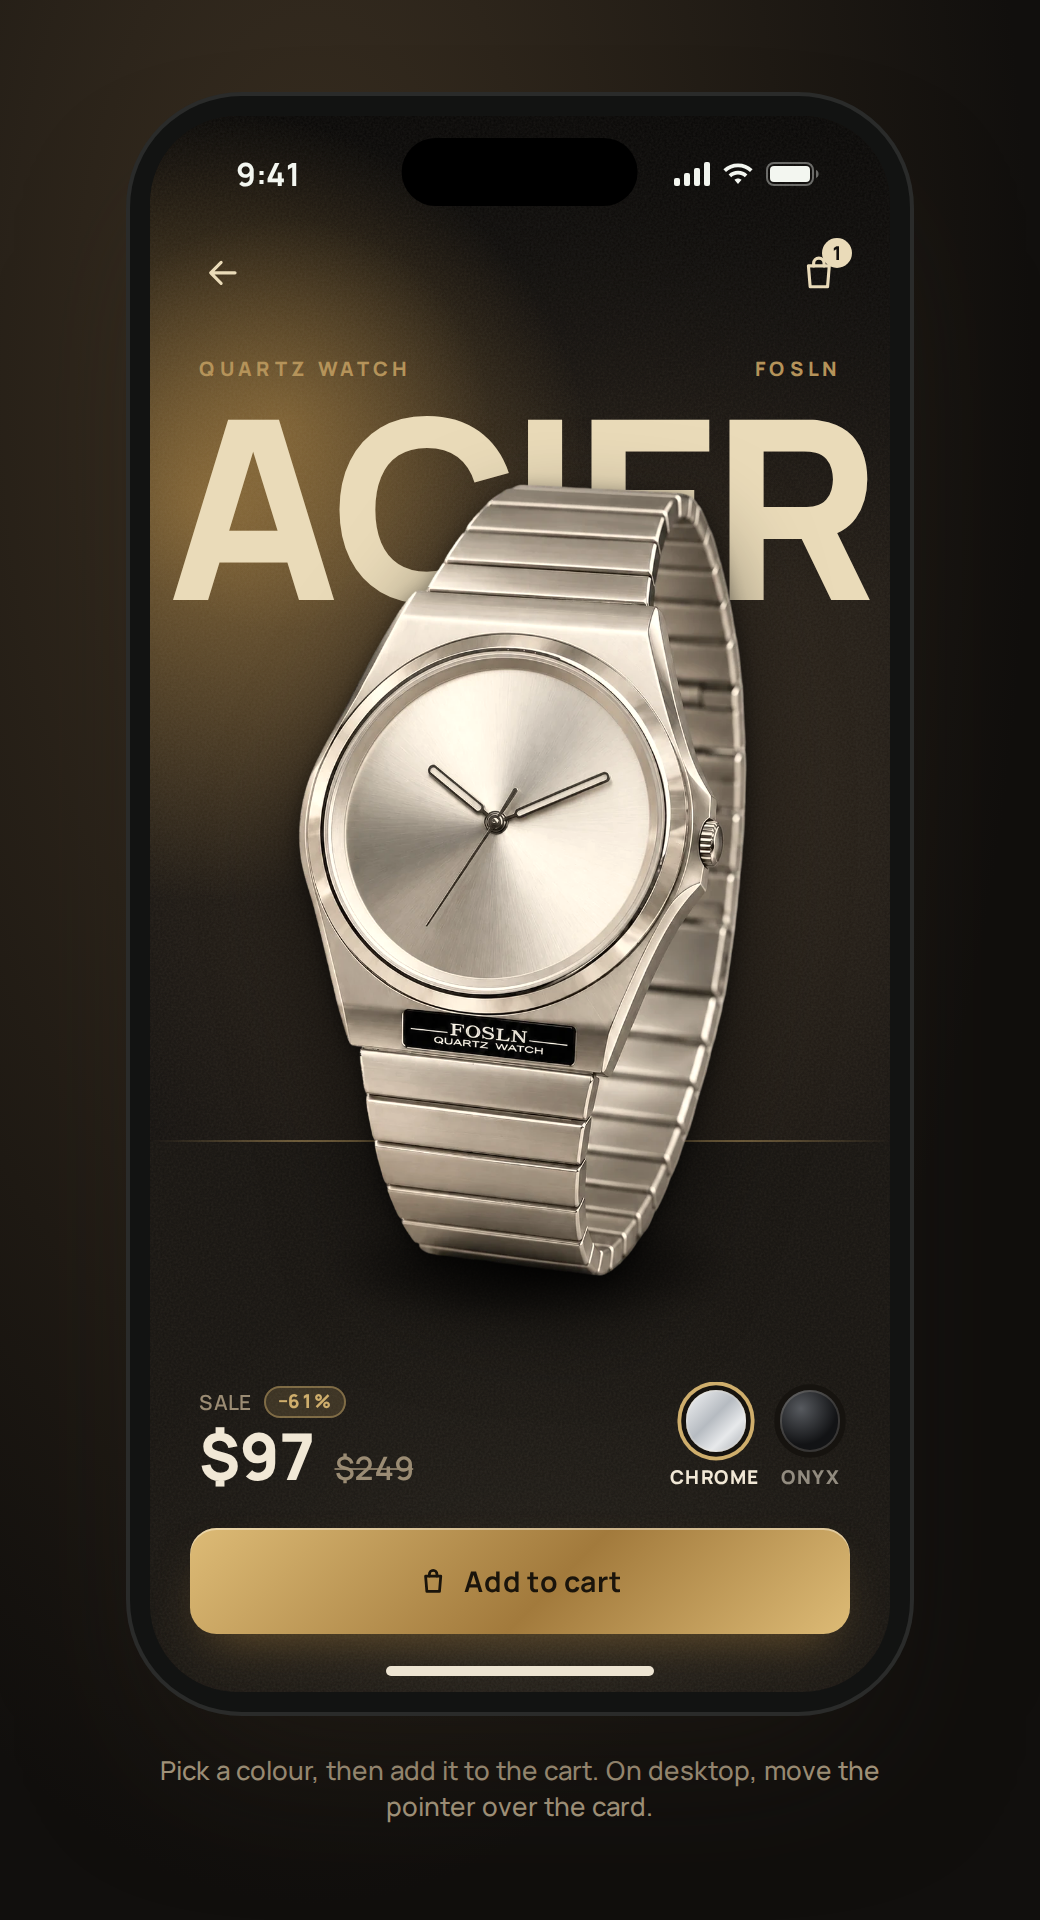
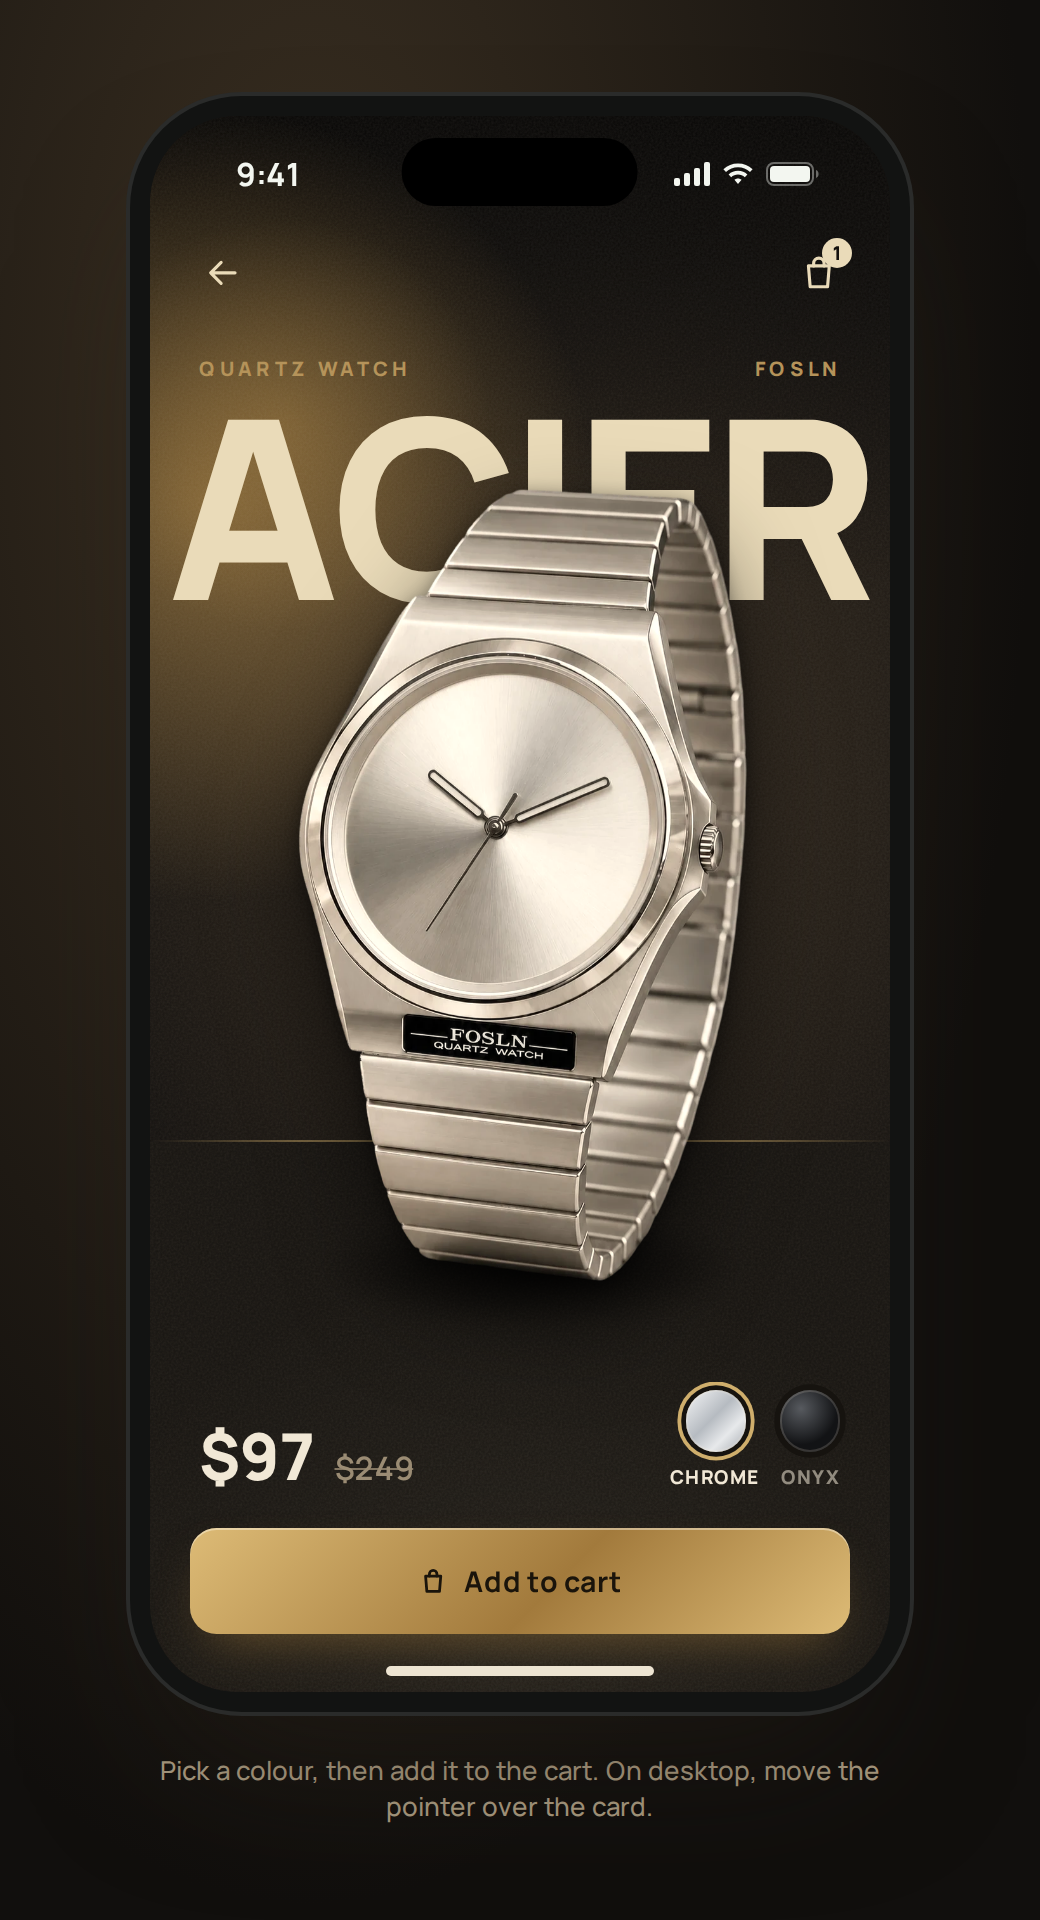
Product card (watch): drop the Sale label and percentage tag
The comparison carries the sale on its own: the footer is now just $97
with $249 struck through beside it. In the Shopify section, the "Price"
label shows only for variants at full price and hides while a compare-at
price is shown; the sale label and percentage settings are removed.

Claude-Session: https://claude.ai/code/session_01USNSbaj4fcY1X4jUF4TLUx

Changed region(s): [[0.2769, 0.25, 0.7077, 0.6875], [0.4308, 0.4062, 0.5846, 0.4688], [0.2462, 0.7188, 0.3385, 0.75]]

diff --git a/components/product-card-watch/shopify/ui-wcard-shopify.js b/components/product-card-watch/shopify/ui-wcard-shopify.js
@@ -1,10 +1,10 @@
 /* UI Product Card (watch) — Shopify connection. Upload as assets/ui-wcard-shopify.js.
 
    - Swatches pick the variant: each swatch input carries data-variant-id,
-     data-price and data-available (plus data-compare and data-off when the
-     variant is on sale). Picking one updates the hidden variant id, the
-     price, the struck-through compare-at price and discount tag, the price
-     label ("Price" or "Sale"), and the button (it reads "Sold out" and
+     data-price and data-available (plus data-compare when the variant is on
+     sale). Picking one updates the hidden variant id, the price, the
+     struck-through compare-at price (the "Price" label hides while it shows),
+     and the button (it reads "Sold out" and
      disables when the variant is unavailable).
    - Add to cart adds the selected variant to the real cart through Shopify's
      Cart AJAX API (POST /cart/add.js), while the product flies. The badge
@@ -68,9 +68,7 @@
     var price = card.querySelector(".ui-wcard__price");
     var was = card.querySelector(".ui-wcard__price-was");
     var wasValue = card.querySelector("[data-ui-wcard-was]");
-    var off = card.querySelector(".ui-wcard__price-off");
-    var priceName = card.querySelector(".ui-wcard__price-name");
-    var showPercent = card.getAttribute("data-show-percent") !== "false";
+    var priceHead = card.querySelector(".ui-wcard__price-head");
     var cta = card.querySelector(".ui-wcard__cta");
     var label = card.querySelector(".ui-wcard__cta-add");
     var addHTML = label ? label.innerHTML : "";
@@ -84,13 +82,7 @@
       var compare = radio.dataset.compare;
       if (was) was.hidden = !compare;
       if (wasValue) wasValue.textContent = compare || "";
-      if (off) {
-        off.hidden = !(compare && showPercent);
-        off.textContent = compare ? "\u2212" + radio.dataset.off + "%" : "";
-      }
-      if (priceName) {
-        priceName.textContent = card.getAttribute(compare ? "data-sale-label" : "data-price-label") || priceName.textContent;
-      }
+      if (priceHead) priceHead.hidden = !!compare;
       var available = radio.dataset.available !== "false";
       if (cta) cta.disabled = !available;
       if (label) {

diff --git a/components/product-card-watch/style.css b/components/product-card-watch/style.css
@@ -328,25 +328,7 @@
   text-transform: uppercase;
 }
 
-.ui-wcard__price-head {
-  display: flex;
-  align-items: center;
-  gap: calc(7 * var(--u));
-}
-
-/* Discount tag: a small pill in the ring colour (gold on Chrome, ivory on Onyx). */
-.ui-wcard__price-off {
-  padding: calc(3 * var(--u)) calc(7 * var(--u));
-  border-radius: 999px;
-  background: color-mix(in srgb, var(--ui-wcard-ring) 18%, transparent);
-  box-shadow: inset 0 0 0 1px color-mix(in srgb, var(--ui-wcard-ring) 45%, transparent);
-  color: var(--ui-wcard-ring);
-  font-size: calc(10 * var(--u));
-  font-weight: 800;
-  letter-spacing: 0.04em;
-  line-height: 1;
-  font-variant-numeric: tabular-nums;
-}
+.ui-wcard__price-head { display: block; }
 
 .ui-wcard__price-row {
   display: flex;
@@ -368,8 +350,12 @@
   text-transform: none;
 }
 
-.ui-wcard__price-off[hidden],
+.ui-wcard__price-head[hidden],
 .ui-wcard__price-was[hidden] { display: none; }
+
+/* With no label above it (on sale), the price row sits on the label's line. */
+.ui-wcard__price-head[hidden] + .ui-wcard__price-row,
+.ui-wcard__price-label > .ui-wcard__price-row:first-child { margin-top: 0; }
 
 .ui-wcard__price {
   display: block;

diff --git a/components/product-card-watch/index.html b/components/product-card-watch/index.html
@@ -128,7 +128,6 @@
         <div class="ui-wcard__body">
           <div class="ui-wcard__row">
             <p class="ui-wcard__price-label">
-              <span class="ui-wcard__price-head"><span class="ui-wcard__price-name">Sale</span> <span class="ui-wcard__price-off">−61%</span></span>
               <span class="ui-wcard__price-row">
                 <strong class="ui-wcard__price">$97</strong>
                 <s class="ui-wcard__price-was"><span class="ui-wcard__sr">Was </span>$249</s>

diff --git a/components/product-card-watch/README.md b/components/product-card-watch/README.md
@@ -7,7 +7,7 @@ The watch edition of the [product card](../product-card/), for the FOSLN ACIER q
   - Spec line: "Quartz watch" on the left, the brand "FOSLN" on the right.
   - Wordmark: "ACIER", edge to edge, sitting behind the watch. It's sized for five letters.
   - Watch: stands over the lower half of the wordmark, from the stage into the footer, over a soft contact shadow.
-  - Footer: the sale price on the left ("SALE −61%" over "$97" with "$249" struck through), the Chrome and Onyx swatches on the right, CTA underneath.
+  - Footer: the sale price on the left ("$97" with "$249" struck through beside it), the Chrome and Onyx swatches on the right, CTA underneath.
 - **Theme:** taken from a moody product shot of the watch on dark rock in low golden light:
   - a fine stone grain over the stage and footer
   - a warm glow from the upper left
@@ -81,7 +81,6 @@ Plain HTML, CSS and vanilla JS, no dependencies. Classes are prefixed `ui-wcard`
     <div class="ui-wcard__body">
       <div class="ui-wcard__row">
         <p class="ui-wcard__price-label">
-          <span class="ui-wcard__price-head"><span class="ui-wcard__price-name">Sale</span> <span class="ui-wcard__price-off">−61%</span></span>
           <span class="ui-wcard__price-row">
             <strong class="ui-wcard__price">$97</strong>
             <s class="ui-wcard__price-was"><span class="ui-wcard__sr">Was </span>$249</s>
@@ -109,7 +108,7 @@ Plain HTML, CSS and vanilla JS, no dependencies. Classes are prefixed `ui-wcard`
 </article>
 ```
 
-**Sale price:** the struck-through `ui-wcard__price-was` and the `ui-wcard__price-off` tag are optional. For full price, drop both, or give them `hidden`, and set the name to "Price". The tag picks up the selected swatch ring colour: gold on Chrome, ivory on Onyx.
+**Sale price:** the struck-through `ui-wcard__price-was` is optional. For full price, drop it and put a label above the price instead: `<span class="ui-wcard__price-head">Price</span>` as the first child of the paragraph.
 
 The swatches are real radio inputs, so arrow keys, focus and screen readers work without extra code. Each radio's `value` must match an image's `data-colorway`.
 
@@ -188,11 +187,11 @@ The `shopify/` folder turns the card into a theme section for a real product.
    - its card colours: stage, ombré, light glow, wordmark, spec line, the button's two gradient colours, and ring
 
    The preset comes with Chrome and Onyx. Values without a block use the theme's swatch colour, the variant image and the Chrome card colours. Products without a colour option show one image and no swatches.
-5. **Text.** The settings cover the wordmark, spec line, price and sale labels, button label, "Added", "Sold out" and an optional button note (empty by default, which keeps the label centred). The wordmark defaults to the first word of the product title. Short words of 3–5 letters fill the card best.
+5. **Text.** The settings cover the wordmark, spec line, price label, button label, "Added", "Sold out" and an optional button note (empty by default, which keeps the label centred). The wordmark defaults to the first word of the product title. Short words of 3–5 letters fill the card best.
 
 **What the connection does:**
 - Picking a swatch selects that colour's variant, updates the price, and shows "Sold out" (and disables the button) when it's unavailable.
-- **Sale prices come from Shopify.** When the selected variant's compare-at price is higher than its price, the card shows the sale label, a rounded discount tag (which can be turned off) and the compare-at price struck through. Switching to a variant at full price switches back to "Price".
+- **Sale prices come from Shopify.** When the selected variant's compare-at price is higher than its price, the card shows the compare-at price struck through next to the price. Variants at full price show the "Price" label above the price instead.
 - Add to cart posts to Shopify's Cart AJAX API (`/cart/add.js`) while the product flies. The badge then shows the real cart count.
 - Shopify's errors, such as "All 1 Acier - Onyx are in your cart.", show on the button.
 - It refreshes a Dawn-style `#cart-icon-bubble` in the theme header and fires `ui-wcard:cart` on `document` with `{ cart }`, for themes that refresh their cart drawer some other way.
